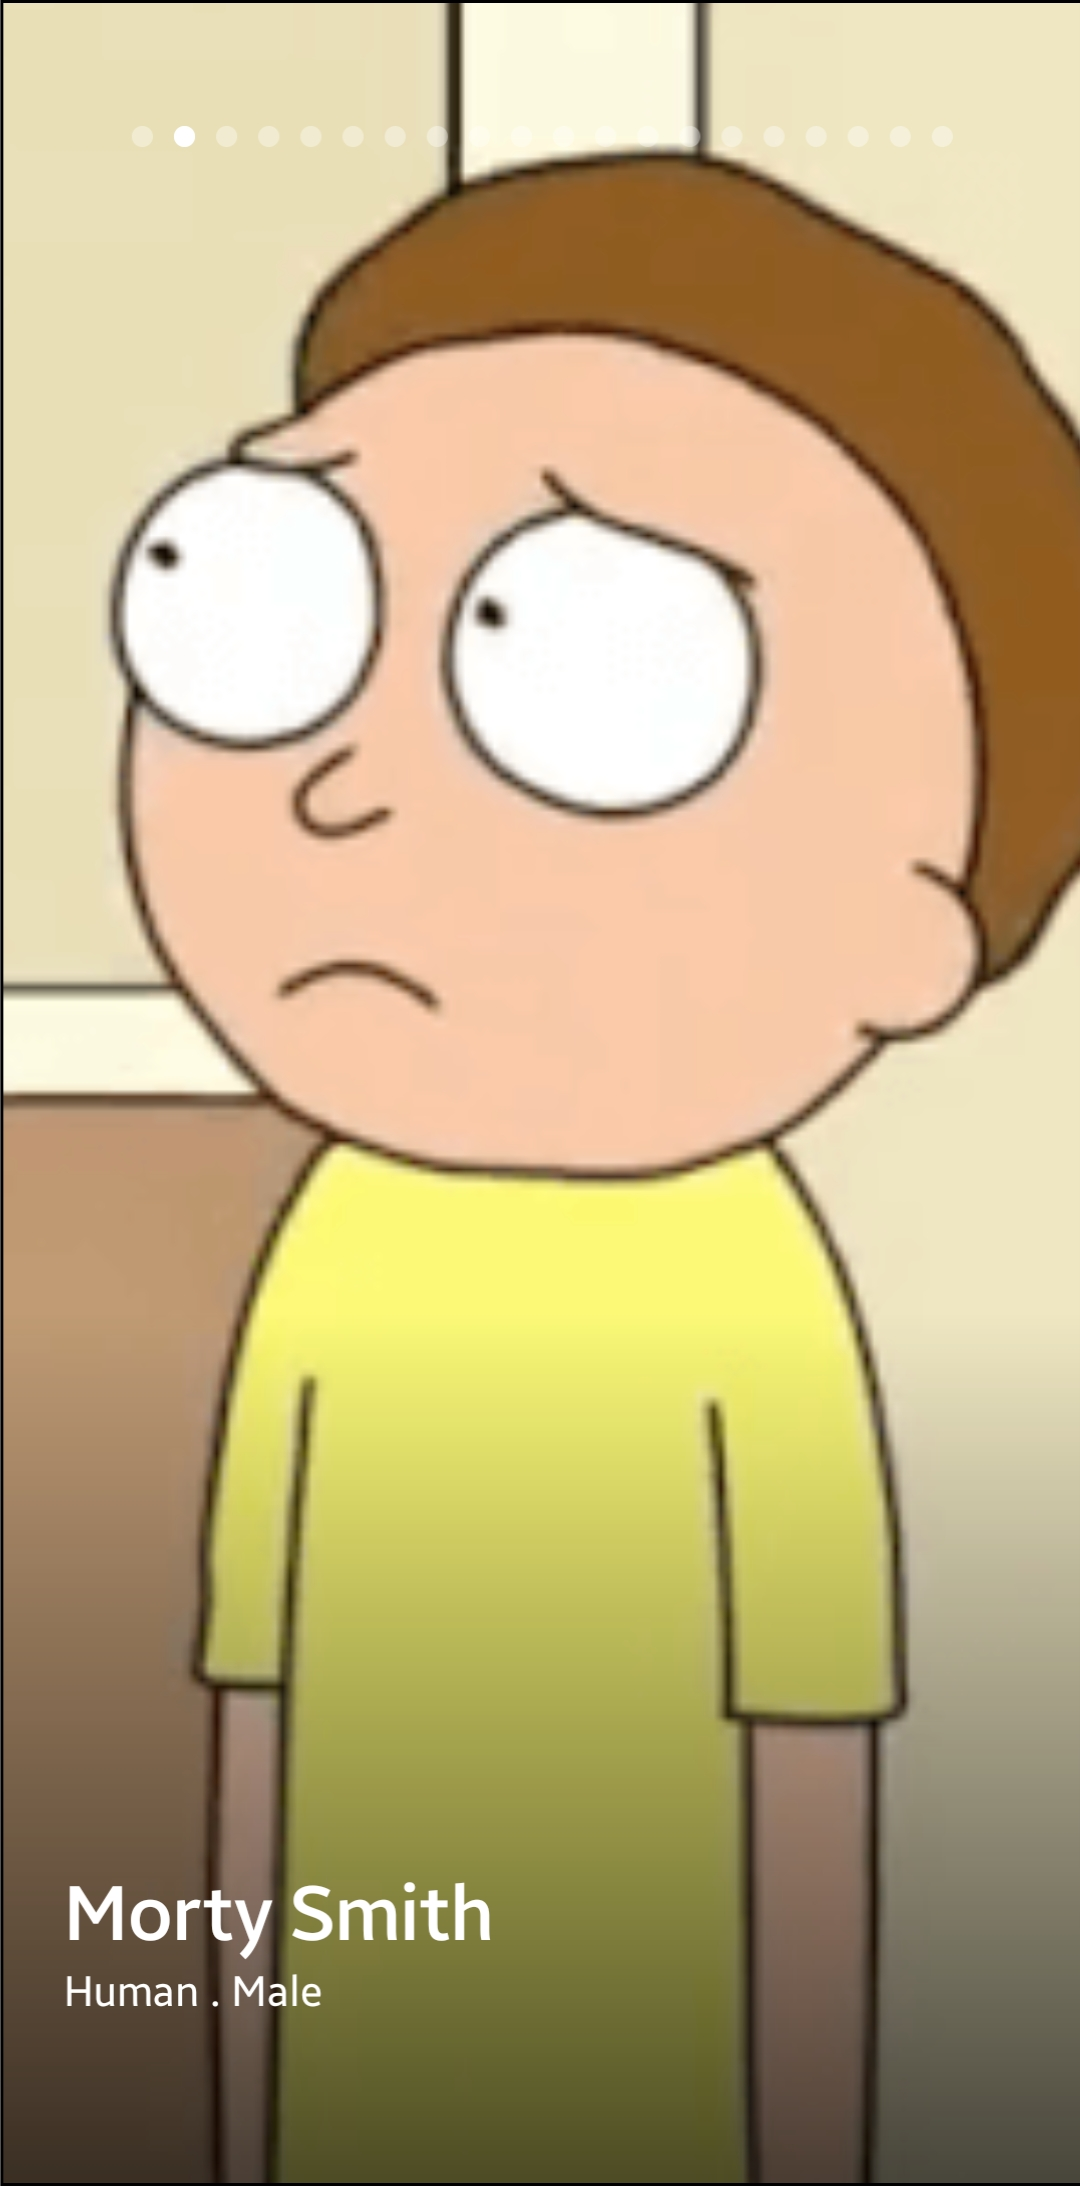
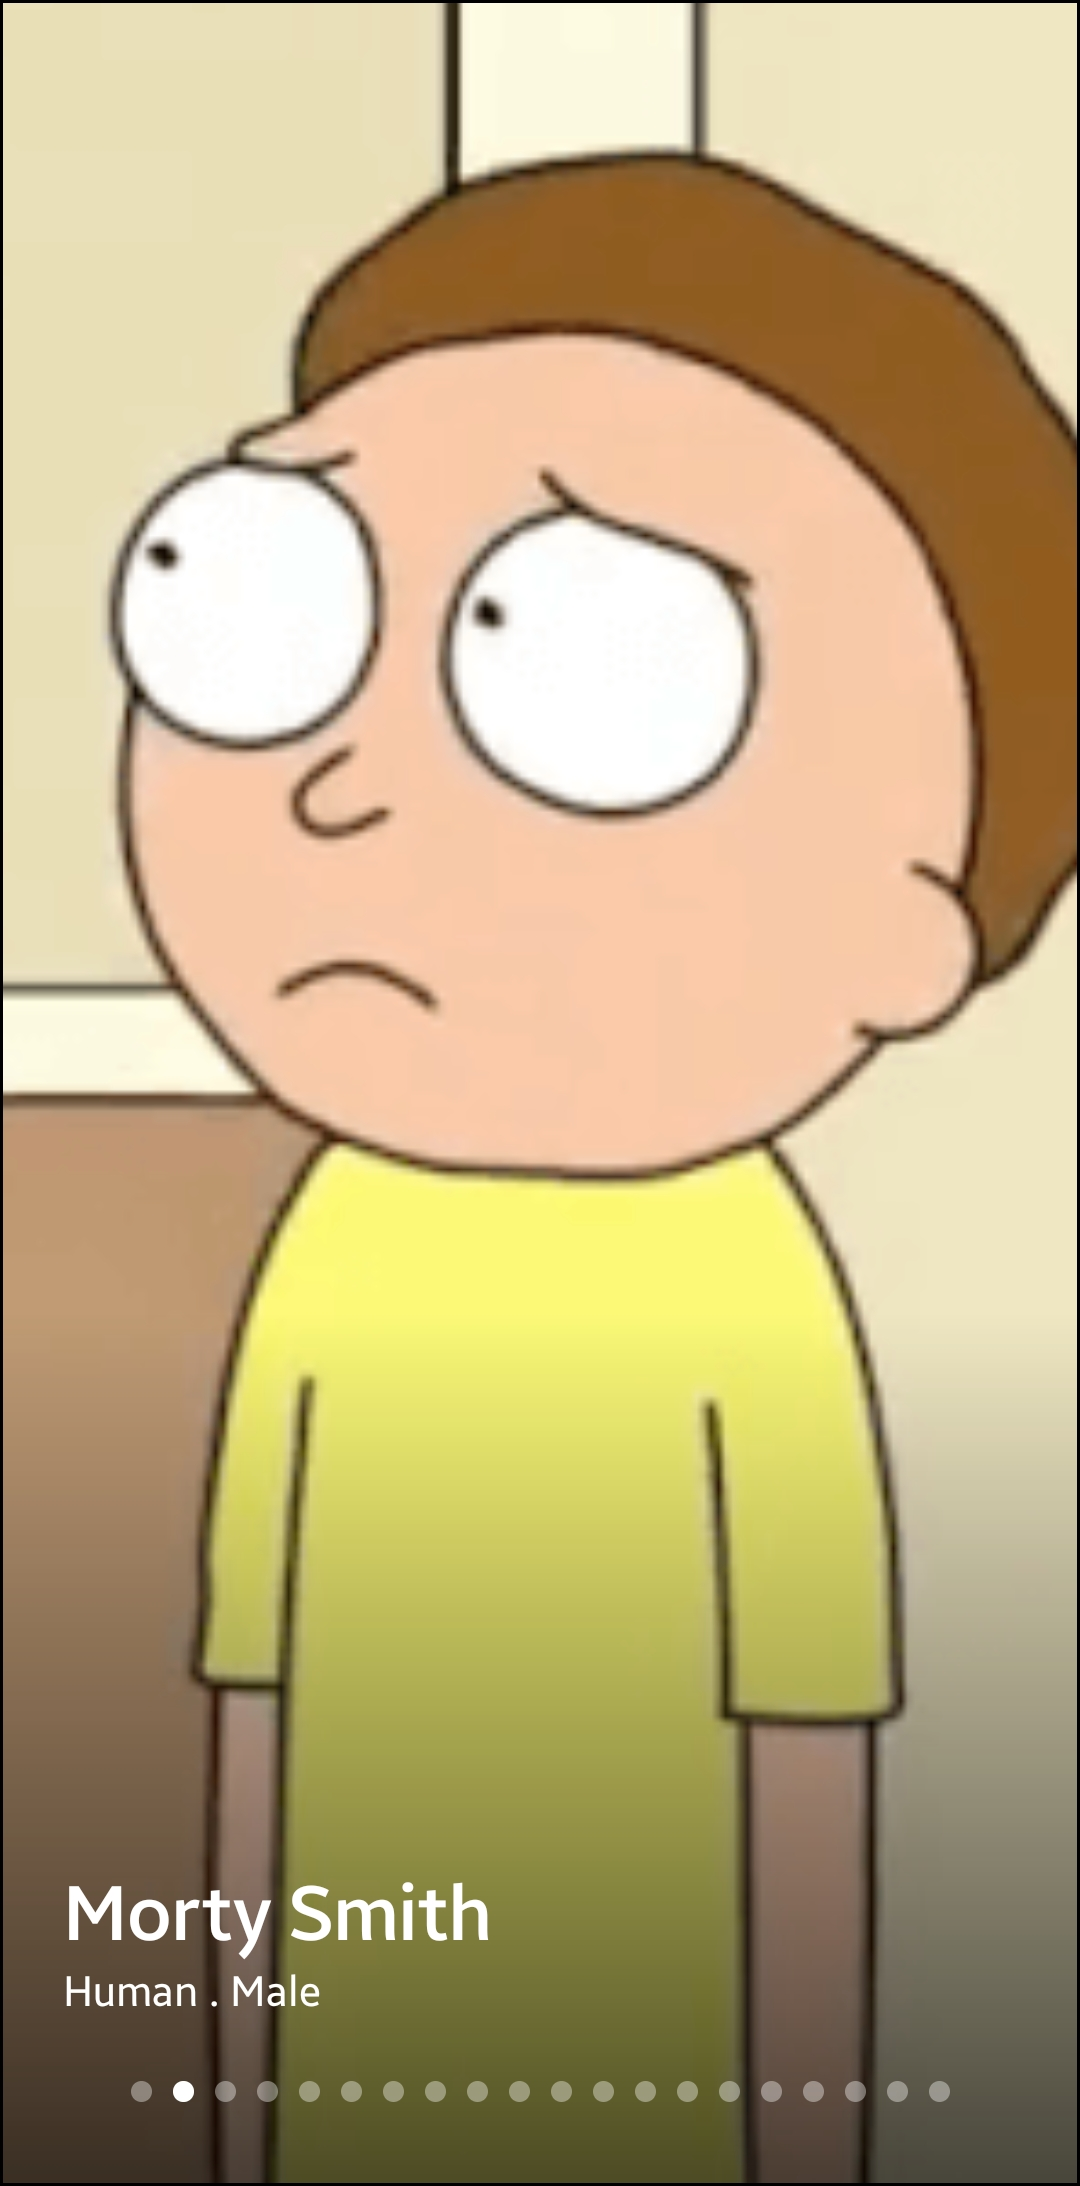
small small changes

diff --git a/app/src/main/java/com/example/ktorapi/screens/CharactersScreen.kt b/app/src/main/java/com/example/ktorapi/screens/CharactersScreen.kt
@@ -105,8 +105,8 @@ fun PagerContent(
                     HorizontalPagerIndicator(
                         pagerState = pagerState,
                         modifier = Modifier
-                            .align(Alignment.TopCenter)
-                            .padding(vertical = 48.dp),
+                            .align(Alignment.BottomCenter)
+                            .padding(vertical = 32.dp),
                         activeColor = Color.White
                     )
                 }
